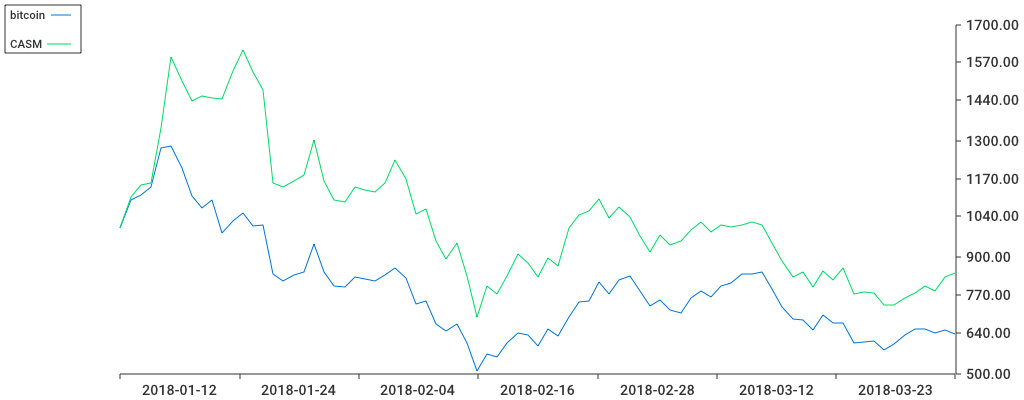
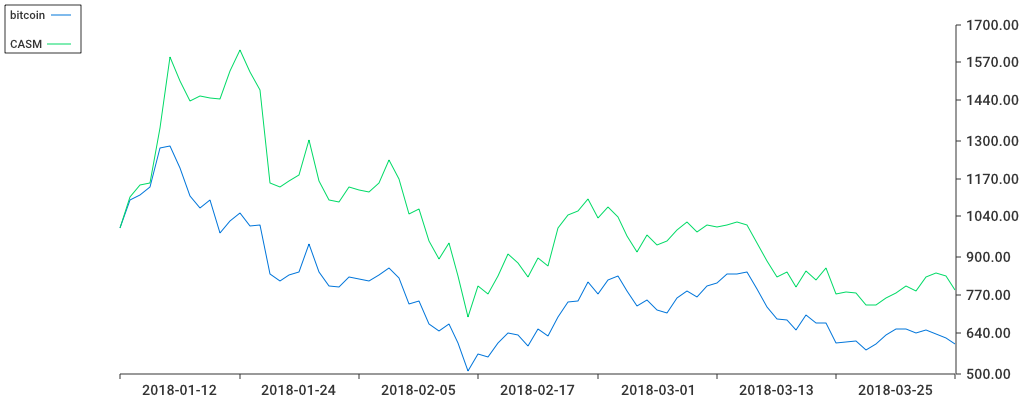
new data

diff --git a/charts/portfolio/casm2.md b/charts/portfolio/casm2.md
@@ -3,6 +3,8 @@
 ## Strategy: 
 [{bitcoin 0.2} {ethereum 0.2} {litecoin 0.2} {zcash 0.2} {ripple 0.2}]
 ### bitcoin
+* Date bought: 2018-01-01 - Current Date: 2018-03-26 00:00:00 +0000 UTC - Valuation: 120.22 - Price: 8209.40 
+* Date bought: 2018-01-01 - Current Date: 2018-03-25 00:00:00 +0000 UTC - Valuation: 124.41 - Price: 8495.78 
 * Date bought: 2018-01-01 - Current Date: 2018-03-24 00:00:00 +0000 UTC - Valuation: 126.94 - Price: 8668.12 
 * Date bought: 2018-01-01 - Current Date: 2018-03-23 00:00:00 +0000 UTC - Valuation: 130.04 - Price: 8879.62 
 * Date bought: 2018-01-01 - Current Date: 2018-03-22 00:00:00 +0000 UTC - Valuation: 127.82 - Price: 8728.47 
@@ -87,6 +89,8 @@
 * Date bought: 2018-01-01 - Current Date: 2018-01-02 00:00:00 +0000 UTC - Valuation: 219.40 - Price: 14982.10 
 * Date bought: 2018-01-01 - Current Date: 2018-01-01 00:00:00 +0000 UTC - Valuation: 200.00 - Price: 13657.20 
 ### ethereum
+* Date bought: 2018-01-01 - Current Date: 2018-03-26 00:00:00 +0000 UTC - Valuation: 126.82 - Price: 489.95 
+* Date bought: 2018-01-01 - Current Date: 2018-03-25 00:00:00 +0000 UTC - Valuation: 135.71 - Price: 524.29 
 * Date bought: 2018-01-01 - Current Date: 2018-03-24 00:00:00 +0000 UTC - Valuation: 136.27 - Price: 526.44 
 * Date bought: 2018-01-01 - Current Date: 2018-03-23 00:00:00 +0000 UTC - Valuation: 139.68 - Price: 539.62 
 * Date bought: 2018-01-01 - Current Date: 2018-03-22 00:00:00 +0000 UTC - Valuation: 139.70 - Price: 539.70 
@@ -171,6 +175,8 @@
 * Date bought: 2018-01-01 - Current Date: 2018-01-02 00:00:00 +0000 UTC - Valuation: 228.94 - Price: 884.44 
 * Date bought: 2018-01-01 - Current Date: 2018-01-01 00:00:00 +0000 UTC - Valuation: 200.00 - Price: 772.64 
 ### litecoin
+* Date bought: 2018-01-01 - Current Date: 2018-03-26 00:00:00 +0000 UTC - Valuation: 130.31 - Price: 149.22 
+* Date bought: 2018-01-01 - Current Date: 2018-03-25 00:00:00 +0000 UTC - Valuation: 139.79 - Price: 160.08 
 * Date bought: 2018-01-01 - Current Date: 2018-03-24 00:00:00 +0000 UTC - Valuation: 139.40 - Price: 159.63 
 * Date bought: 2018-01-01 - Current Date: 2018-03-23 00:00:00 +0000 UTC - Valuation: 146.56 - Price: 167.83 
 * Date bought: 2018-01-01 - Current Date: 2018-03-22 00:00:00 +0000 UTC - Valuation: 142.92 - Price: 163.67 
@@ -255,6 +261,8 @@
 * Date bought: 2018-01-01 - Current Date: 2018-01-02 00:00:00 +0000 UTC - Valuation: 223.27 - Price: 255.68 
 * Date bought: 2018-01-01 - Current Date: 2018-01-01 00:00:00 +0000 UTC - Valuation: 200.00 - Price: 229.03 
 ### zcash
+* Date bought: 2018-01-01 - Current Date: 2018-03-26 00:00:00 +0000 UTC - Valuation: 78.09 - Price: 225.35 
+* Date bought: 2018-01-01 - Current Date: 2018-03-25 00:00:00 +0000 UTC - Valuation: 82.94 - Price: 239.36 
 * Date bought: 2018-01-01 - Current Date: 2018-03-24 00:00:00 +0000 UTC - Valuation: 84.32 - Price: 243.33 
 * Date bought: 2018-01-01 - Current Date: 2018-03-23 00:00:00 +0000 UTC - Valuation: 89.01 - Price: 256.87 
 * Date bought: 2018-01-01 - Current Date: 2018-03-22 00:00:00 +0000 UTC - Valuation: 86.37 - Price: 249.26 
@@ -339,6 +347,8 @@
 * Date bought: 2018-01-01 - Current Date: 2018-01-02 00:00:00 +0000 UTC - Valuation: 202.19 - Price: 583.51 
 * Date bought: 2018-01-01 - Current Date: 2018-01-01 00:00:00 +0000 UTC - Valuation: 200.00 - Price: 577.19 
 ### ripple
+* Date bought: 2018-01-01 - Current Date: 2018-03-26 00:00:00 +0000 UTC - Valuation: 50.16 - Price: 0.60 
+* Date bought: 2018-01-01 - Current Date: 2018-03-25 00:00:00 +0000 UTC - Valuation: 53.71 - Price: 0.64 
 * Date bought: 2018-01-01 - Current Date: 2018-03-24 00:00:00 +0000 UTC - Valuation: 53.66 - Price: 0.64 
 * Date bought: 2018-01-01 - Current Date: 2018-03-23 00:00:00 +0000 UTC - Valuation: 53.82 - Price: 0.64 
 * Date bought: 2018-01-01 - Current Date: 2018-03-22 00:00:00 +0000 UTC - Valuation: 55.46 - Price: 0.66 
@@ -424,4 +434,4 @@
 * Date bought: 2018-01-01 - Current Date: 2018-01-01 00:00:00 +0000 UTC - Valuation: 200.00 - Price: 2.39 
 
 Compound: 
-[540.5832328369129 559.1042585564846 552.2794303437538 571.9540161694222 571.4046363573782 561.4349857924121 534.206740093193 522.3812640469091 562.0460885762147 565.975184482142 566.3986682795394 631.5954617250544 639.7001205880952 669.3739890444972 629.4759217510046 667.7264423604294 653.5414523834665 696.4385221734071 751.4507893777072 790.9399983587896 805.9772138240754 784.3928033196871 780.3197552625882 785.6902838858881 758.8959207385474 794.5374414395618 789.9353463296267 767.2630078435419 759.9431747150301 785.1735328019548 744.1261410669256 798.8944841777535 845.2845783049811 862.7812164931066 832.0825441551543 885.7730744924298 857.4786376331438 853.1721575140753 827.4581757966715 725.1666130857687 747.2276175285396 694.1610646485179 741.8976247780781 744.6165332509893 681.6920714031393 611.6225837367783 637.7210289088762 555.0593794214159 655.0032531901409 735.7981022321994 688.0425911519098 746.3406017918192 816.7425340638647 797.867268180587 896.0290841241721 945.1340730579097 870.6764032173318 851.4846838530797 869.1731703899334 867.9292406088234 835.0102983662542 845.5957025125495 892.0825021942176 997.615715522276 918.8522369717439 908.3899068365452 871.0434628708019 882.2108119183185 1098.2524694765825 1153.7038676171417 1210.2388562910478 1154.6912474953938 1082.8030751931403 1177.9351667853878 1174.7625221046349 1189.6468743272696 1379.7265183200998 1308.5849539260682 1190.45363121039 1167.1484873137033 1147.959087624679 1081.3353204629957 1000]
+[505.6012950201299 536.5712798590042 540.5832328369129 559.1042585564846 552.2794303437538 571.9540161694222 571.4046363573782 561.4349857924121 534.206740093193 522.3812640469091 562.0460885762147 565.975184482142 566.3986682795394 631.5954617250544 639.7001205880952 669.3739890444972 629.4759217510046 667.7264423604294 653.5414523834665 696.4385221734071 751.4507893777072 790.9399983587896 805.9772138240754 784.3928033196871 780.3197552625882 785.6902838858881 758.8959207385474 794.5374414395618 789.9353463296267 767.2630078435419 759.9431747150301 785.1735328019548 744.1261410669256 798.8944841777535 845.2845783049811 862.7812164931066 832.0825441551543 885.7730744924298 857.4786376331438 853.1721575140753 827.4581757966715 725.1666130857687 747.2276175285396 694.1610646485179 741.8976247780781 744.6165332509893 681.6920714031393 611.6225837367783 637.7210289088762 555.0593794214159 655.0032531901409 735.7981022321994 688.0425911519098 746.3406017918192 816.7425340638647 797.867268180587 896.0290841241721 945.1340730579097 870.6764032173318 851.4846838530797 869.1731703899334 867.9292406088234 835.0102983662542 845.5957025125495 892.0825021942176 997.615715522276 918.8522369717439 908.3899068365452 871.0434628708019 882.2108119183185 1098.2524694765825 1153.7038676171417 1210.2388562910478 1154.6912474953938 1082.8030751931403 1177.9351667853878 1174.7625221046349 1189.6468743272696 1379.7265183200998 1308.5849539260682 1190.45363121039 1167.1484873137033 1147.959087624679 1081.3353204629957 1000]

diff --git a/charts/portfolio/casm.md b/charts/portfolio/casm.md
@@ -3,6 +3,8 @@
 ## Strategy: 
 [{bitcoin 0.3} {ethereum 0.3} {litecoin 0.2} {binance-coin 0.2}]
 ### bitcoin
+* Date bought: 2018-01-01 - Current Date: 2018-03-26 00:00:00 +0000 UTC - Valuation: 180.33 - Price: 8209.40 
+* Date bought: 2018-01-01 - Current Date: 2018-03-25 00:00:00 +0000 UTC - Valuation: 186.62 - Price: 8495.78 
 * Date bought: 2018-01-01 - Current Date: 2018-03-24 00:00:00 +0000 UTC - Valuation: 190.41 - Price: 8668.12 
 * Date bought: 2018-01-01 - Current Date: 2018-03-23 00:00:00 +0000 UTC - Valuation: 195.05 - Price: 8879.62 
 * Date bought: 2018-01-01 - Current Date: 2018-03-22 00:00:00 +0000 UTC - Valuation: 191.73 - Price: 8728.47 
@@ -87,6 +89,8 @@
 * Date bought: 2018-01-01 - Current Date: 2018-01-02 00:00:00 +0000 UTC - Valuation: 329.10 - Price: 14982.10 
 * Date bought: 2018-01-01 - Current Date: 2018-01-01 00:00:00 +0000 UTC - Valuation: 300.00 - Price: 13657.20 
 ### ethereum
+* Date bought: 2018-01-01 - Current Date: 2018-03-26 00:00:00 +0000 UTC - Valuation: 190.24 - Price: 489.95 
+* Date bought: 2018-01-01 - Current Date: 2018-03-25 00:00:00 +0000 UTC - Valuation: 203.57 - Price: 524.29 
 * Date bought: 2018-01-01 - Current Date: 2018-03-24 00:00:00 +0000 UTC - Valuation: 204.41 - Price: 526.44 
 * Date bought: 2018-01-01 - Current Date: 2018-03-23 00:00:00 +0000 UTC - Valuation: 209.52 - Price: 539.62 
 * Date bought: 2018-01-01 - Current Date: 2018-03-22 00:00:00 +0000 UTC - Valuation: 209.55 - Price: 539.70 
@@ -171,6 +175,8 @@
 * Date bought: 2018-01-01 - Current Date: 2018-01-02 00:00:00 +0000 UTC - Valuation: 343.41 - Price: 884.44 
 * Date bought: 2018-01-01 - Current Date: 2018-01-01 00:00:00 +0000 UTC - Valuation: 300.00 - Price: 772.64 
 ### litecoin
+* Date bought: 2018-01-01 - Current Date: 2018-03-26 00:00:00 +0000 UTC - Valuation: 130.31 - Price: 149.22 
+* Date bought: 2018-01-01 - Current Date: 2018-03-25 00:00:00 +0000 UTC - Valuation: 139.79 - Price: 160.08 
 * Date bought: 2018-01-01 - Current Date: 2018-03-24 00:00:00 +0000 UTC - Valuation: 139.40 - Price: 159.63 
 * Date bought: 2018-01-01 - Current Date: 2018-03-23 00:00:00 +0000 UTC - Valuation: 146.56 - Price: 167.83 
 * Date bought: 2018-01-01 - Current Date: 2018-03-22 00:00:00 +0000 UTC - Valuation: 142.92 - Price: 163.67 
@@ -255,6 +261,8 @@
 * Date bought: 2018-01-01 - Current Date: 2018-01-02 00:00:00 +0000 UTC - Valuation: 223.27 - Price: 255.68 
 * Date bought: 2018-01-01 - Current Date: 2018-01-01 00:00:00 +0000 UTC - Valuation: 200.00 - Price: 229.03 
 ### binance-coin
+* Date bought: 2018-01-01 - Current Date: 2018-03-26 00:00:00 +0000 UTC - Valuation: 286.80 - Price: 12.06 
+* Date bought: 2018-01-01 - Current Date: 2018-03-25 00:00:00 +0000 UTC - Valuation: 303.92 - Price: 12.78 
 * Date bought: 2018-01-01 - Current Date: 2018-03-24 00:00:00 +0000 UTC - Valuation: 311.30 - Price: 13.09 
 * Date bought: 2018-01-01 - Current Date: 2018-03-23 00:00:00 +0000 UTC - Valuation: 279.19 - Price: 11.74 
 * Date bought: 2018-01-01 - Current Date: 2018-03-22 00:00:00 +0000 UTC - Valuation: 239.48 - Price: 10.07 
@@ -340,4 +348,4 @@
 * Date bought: 2018-01-01 - Current Date: 2018-01-01 00:00:00 +0000 UTC - Valuation: 200.00 - Price: 8.41 
 
 Compound: 
-[845.5060327915442 830.3254496514015 783.6889479718302 799.2115827785533 777.3922989462367 760.2595577165787 737.1707955822251 735.9124360352187 777.9054781601176 779.7362219519587 773.9341705915937 864.3783760004819 820.7730186141749 852.9370426078455 799.06375614528 849.2048390197497 831.7152573691343 888.2450074539267 948.7489670660399 1010.530871772199 1022.240539021809 1012.2172482211373 1004.8872750426723 1012.3158293231111 985.9190144552088 1019.2664974812997 993.6451680054745 955.2011089329394 942.1465640057864 975.0449033935199 917.593759716699 974.2308533082033 1036.9219524408834 1071.3474117885326 1033.3778120663214 1100.7234951756543 1058.7207795015788 1043.9143260846515 1000.8030809789407 870.1908810384361 896.1184903696164 831.9037277524135 879.5543635259113 909.6688133842836 834.1469327964536 774.6779909269846 800.2916887132686 692.7980346692065 836.3612117100504 947.6537544934333 893.7744077071322 954.6683533041587 1066.3053637823841 1049.7659090060133 1169.3098875283047 1233.9969165301425 1154.2265004730332 1123.8131034731882 1129.4091800563392 1141.9415669226178 1088.2408594197584 1096.2557873872865 1163.2284305167318 1301.16073710239 1182.2273252451655 1162.4214351344608 1140.1572304286058 1156.3110297748265 1473.62380861813 1535.8104827705488 1611.2098199853872 1539.0951577358655 1443.5664957354925 1448.8401354728824 1455.0289607627437 1436.7701352089018 1505.3518283517462 1589.6031204831597 1342.7480902529305 1153.3304491895126 1148.8575266083708 1106.0109206769719 1000]
+[787.6761221421474 833.9063228083105 845.5060327915442 830.3254496514015 783.6889479718302 799.2115827785533 777.3922989462367 760.2595577165787 737.1707955822251 735.9124360352187 777.9054781601176 779.7362219519587 773.9341705915937 864.3783760004819 820.7730186141749 852.9370426078455 799.06375614528 849.2048390197497 831.7152573691343 888.2450074539267 948.7489670660399 1010.530871772199 1022.240539021809 1012.2172482211373 1004.8872750426723 1012.3158293231111 985.9190144552088 1019.2664974812997 993.6451680054745 955.2011089329394 942.1465640057864 975.0449033935199 917.593759716699 974.2308533082033 1036.9219524408834 1071.3474117885326 1033.3778120663214 1100.7234951756543 1058.7207795015788 1043.9143260846515 1000.8030809789407 870.1908810384361 896.1184903696164 831.9037277524135 879.5543635259113 909.6688133842836 834.1469327964536 774.6779909269846 800.2916887132686 692.7980346692065 836.3612117100504 947.6537544934333 893.7744077071322 954.6683533041587 1066.3053637823841 1049.7659090060133 1169.3098875283047 1233.9969165301425 1154.2265004730332 1123.8131034731882 1129.4091800563392 1141.9415669226178 1088.2408594197584 1096.2557873872865 1163.2284305167318 1301.16073710239 1182.2273252451655 1162.4214351344608 1140.1572304286058 1156.3110297748265 1473.62380861813 1535.8104827705488 1611.2098199853872 1539.0951577358655 1443.5664957354925 1448.8401354728824 1455.0289607627437 1436.7701352089018 1505.3518283517462 1589.6031204831597 1342.7480902529305 1153.3304491895126 1148.8575266083708 1106.0109206769719 1000]
